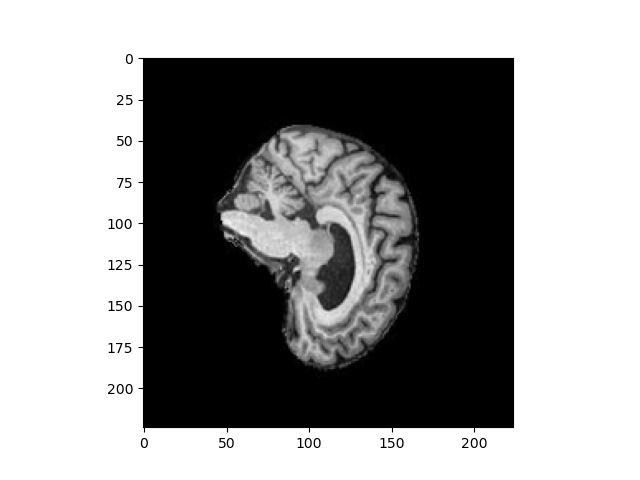
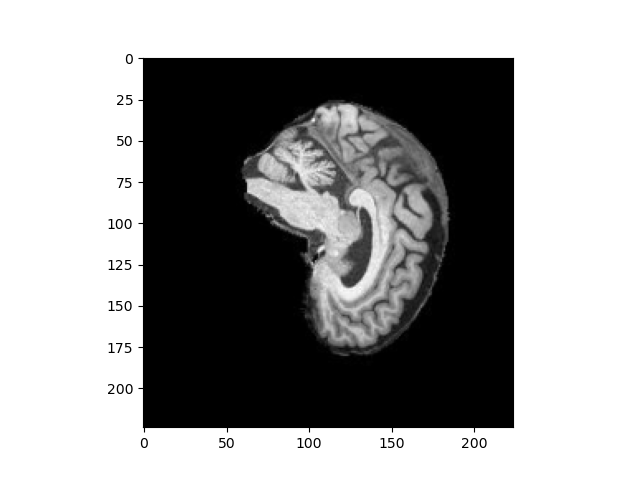
changed input to model to be 20 channels (as each person has 20 images/ slices)

Changed region(s): [[0.3438, 0.1875, 0.7188, 0.7812]]

diff --git a/recognition/s4742538_alzheimers/dataset.py b/recognition/s4742538_alzheimers/dataset.py
@@ -2,7 +2,7 @@
 Containing the data loader for loading and preprocessing your data
 """
 from torchvision import transforms, datasets # type: ignore
-from torch.utils.data import DataLoader, random_split, Subset # type: ignore
+from torch.utils.data import DataLoader, random_split, Subset, Dataset  # type: ignore
 import matplotlib # type: ignore 
 matplotlib.use("Agg") # to work in wsl
 import matplotlib.pyplot as plt  # type: ignore
@@ -11,7 +11,8 @@ from parameters import TRAIN_DIR, TEST_DIR, CHANNELS, IMAGE_SIZE, BATCH_SIZE, SA
 import os
 from sklearn.model_selection import train_test_split # type: ignore 
 from collections import defaultdict 
-
+from PIL import Image # type: ignore
+import torch # type: ignore
 
 # reduce image size, convert to tensor, and then normalise
 transform = transforms.Compose([
@@ -22,68 +23,111 @@ transform = transforms.Compose([
 ])
 
 # Get Images
-train_val_data = datasets.ImageFolder(root=TRAIN_DIR, transform=transform)
-test_data = datasets.ImageFolder(root=TEST_DIR, transform=transform)
+train_val_data = datasets.ImageFolder(root=TRAIN_DIR, transform=None) # do transform in class
+train_class_to_idx = train_val_data.class_to_idx # explicitly assigns labels
+print (f"labels assigned: {train_class_to_idx}")
 
+train_val_person_to_slices = defaultdict(list) #{person1: [1,2,3], person2: [4,5,6]...}
+train_val_person_labels = {}
+for path, label in train_val_data.samples:
+    pid = os.path.basename(path).split("_")[0]
+    train_val_person_to_slices[pid].append(path)
+    train_val_person_labels[pid] = label
 
-# extrac the person_ids
-image_paths = [path for path, _ in train_val_data.samples]
-person_ids = [os.path.basename(path).split("_")[0] for path in image_paths]
+for pid in train_val_person_to_slices: # make sure its in order
+    train_val_person_to_slices[pid] = sorted(train_val_person_to_slices[pid])
 
-person_to_indices = defaultdict(list) 
-for idx, pid in enumerate(person_ids):
-    person_to_indices[pid].append(idx) # stores (persons_id, [list of index's for that persons images])
+# now for test set
+test_data = datasets.ImageFolder(root=TEST_DIR, transform=None) # do transform in class
 
-unique_person_ids = list(person_to_indices.keys())
+test_person_to_slices = defaultdict(list)
+test_person_labels = {}
+
+for path, label in test_data.samples:
+    pid = os.path.basename(path).split("_")[0]
+    test_person_to_slices[pid].append(path)
+    test_person_labels[pid] = label
+
+for pid in test_person_to_slices:
+    test_person_to_slices[pid] = sorted(test_person_to_slices[pid])
+
+# # extract the person_ids
+# image_paths = [path for path, _ in train_val_data.samples]
+# person_ids = [os.path.basename(path).split("_")[0] for path in image_paths]
+
+# person_to_indices = defaultdict(list) 
+# for idx, pid in enumerate(person_ids):
+#     person_to_indices[pid].append(idx) # stores (persons_id, [list of index's for that persons images])
+
+train_val_unique_person_ids = list(train_val_person_to_slices.keys())
+test_person_ids = list(test_person_to_slices.keys())
 
 train_person_ids, val_person_ids = train_test_split(
-    unique_person_ids, 
+    train_val_unique_person_ids, 
     test_size=0.2, 
-    random_state=42 
-)# better than the other one
+    random_state=42,
+    stratify=[train_val_person_labels[pid] for pid in train_val_unique_person_ids] # makes it evenly split
+)
 
-# make indicies and their datasets for tran and val based on peopleid
-train_indices = [idx for pid in train_person_ids for idx in person_to_indices[pid]]
-val_indices = [idx for pid in val_person_ids for idx in person_to_indices[pid]]
+print(f"unique persons {len(train_val_unique_person_ids)}")
+print(f"train persons {len(train_person_ids)}")
+print(f"val persons {len(val_person_ids)}")
 
-train_dataset = Subset(train_val_data, train_indices)
-val_dataset = Subset(train_val_data, val_indices)
+
+class PersonDataset(Dataset):
+    def __init__(self, person_ids, person_to_slices, person_labels, transform):
+        self.person_ids = person_ids
+        self.person_to_slices = person_to_slices
+        self.person_labels = person_labels
+        self.transform = transform
+
+    def __len__(self):
+        return len(self.person_ids)
+
+    def __getitem__(self, idx):
+        pid = self.person_ids[idx]
+        slice_paths = self.person_to_slices[pid]
+        label = self.person_labels[pid]
+
+        slices = []
+        for path in slice_paths:
+            img = Image.open(path).convert('L')
+            if self.transform:
+                img = self.transform(img)
+            img = img.squeeze(0)  # remove old greyscale channel dim
+            slices.append(img)
+
+        # Stack into (20, H, W)
+        volume = torch.stack(slices, dim=0)
+        return volume, label
+
+
+train_dataset = PersonDataset(train_person_ids, train_val_person_to_slices, train_val_person_labels, transform)
+val_dataset = PersonDataset(val_person_ids, train_val_person_to_slices, train_val_person_labels, transform)
+test_dataset = PersonDataset(test_person_ids, test_person_to_slices, test_person_labels, transform)
 
 # sanity check
 print(f"train size {len(train_dataset)}")
 print(f"val size {len(val_dataset)}")
 print(f"test size {len(test_data)}")
-print(f"unique persons {len(unique_person_ids)}")
-print(f"train persons {len(train_person_ids)}")
-print(f"val persons {len(val_person_ids)}")
-
-# TODO: turn this to be error checking
-# # I want to make the assumption that each person has 20 images.
-# # yep this holds, for both train and test
-# counts = {pid: len(indices) for pid, indices in person_to_indices.items()}
-# avg_segments = sum(counts.values()) / len(counts)
-# unique_counts = set(counts.values())
-
-# print(f"Average segments per person: {avg_segments:.2f}")
-# print(f"Unique segment counts: {unique_counts}")
 
 # Make data loaders for each
 train_loader = DataLoader(train_dataset, batch_size=BATCH_SIZE, shuffle=True)
 val_loader = DataLoader(val_dataset, batch_size=BATCH_SIZE, shuffle=False)
-test_loader = DataLoader(test_data, batch_size=BATCH_SIZE, shuffle=False)
+test_loader = DataLoader(test_dataset, batch_size=BATCH_SIZE, shuffle=False)
 
 
-"""Visulise first image as a sanity check"""
-data_iter = iter(train_loader)
-images, labels = next(data_iter)
+"""Visualise first image as a sanity check"""
+# data_iter = iter(train_loader)
+# images, labels = next(data_iter)
 
-# look at the first image
-img = images[0].squeeze(0)  # remove batch & channel dims
-label = labels[0].item()
+# # look at the first image
+# img = images[0, 0]  # remove batch & channel dims
+# label = labels[0].item()
 
-img = img * 0.5 + 0.5 # un-normalise
+# img = img * 0.5 + 0.5 # un-normalise
 
-# Convert to numpy and plot
-plt.imshow(img.numpy(), cmap='gray')
-plt.savefig(SAMPLE_IMAGE_FILENAME)
-print(f"Label {label}")
+# # Convert to numpy and plot
+# plt.imshow(img.squeeze(0).numpy(), cmap='gray')
+# plt.savefig(SAMPLE_IMAGE_FILENAME)
+# print(f"Label {label}")

diff --git a/recognition/s4742538_alzheimers/predict.py b/recognition/s4742538_alzheimers/predict.py
@@ -2,7 +2,6 @@
 showing example usage of your trained model. Print out any results and / or provide 
 visualisations where applicable
 """
-
 from collections import defaultdict
 import os
 from dataset import test_loader
@@ -21,78 +20,21 @@ def eval_accuracy(model, device):
     print(f"Loaded model: {MODEL_FILENAME}")
 
     with torch.no_grad():
-        for (images, labels) in tqdm(test_loader, desc="Test Set"):
-            images = images.to(device)
+        for (volumes, labels) in tqdm(test_loader, desc="Test Set"):
+            volumes = volumes.to(device) # volumes: (B, 20, H, W)
             labels = labels.to(device)
 
-            outputs = model(images)
+            outputs = model(volumes)
             _, preds = torch.max(outputs, 1)
 
             all_labels.extend(labels.cpu().numpy())
             all_preds.extend(preds.cpu().numpy())
 
-    # Convert to numpy arrays
     all_labels = np.array(all_labels)
     all_preds = np.array(all_preds)
 
     test_accuracy = np.mean(all_labels == all_preds)
     print(f"Test Accuracy: {test_accuracy:.4f}")
-
-
-"""
-New one, groups the answers bet person and averages
-"""
-
-from collections import defaultdict
-import os
-
-def eval_accuracy_by_group(model, device):
-    """
-    Evaluate model accuracy for each person (averaged)
-    """
-
-    model.eval()
-    person_to_probs = defaultdict(list)
-    person_to_labels = {}
-
-    dataset = test_loader.dataset
-
-    if hasattr(dataset, "indices"): # handles both Subset or plain ImageFolder
-        samples = [dataset.dataset.samples[i] for i in dataset.indices]
-    else:
-        samples = dataset.samples
-
-    with torch.no_grad():
-        for i, (images, labels) in enumerate(tqdm(test_loader, desc="Grouped Eval")):
-            images = images.to(device)
-            outputs = model(images)
-            probs = torch.softmax(outputs, dim=1).cpu().numpy()
-            labels = labels.cpu().numpy()
-
-            # match batch to corresponding file paths
-            batch_samples = samples[i * test_loader.batch_size : i * test_loader.batch_size + len(labels)]
-
-            for (path, lable), prob in zip(batch_samples, probs):
-                pid = os.path.basename(path).split("_")[0] 
-                person_to_probs[pid].append(prob)
-                person_to_labels.setdefault(pid, int(lable))
-                if person_to_labels[pid] != int(lable):
-                    print(f"inconsistent labels for {pid}")
-
-    # aggregate probs for each person
-    y_true, y_pred = [], []
-    for pid, probs in person_to_probs.items():
-        mean_prob = np.mean(probs, axis=0)
-        pred = int(np.argmax(mean_prob))
-        y_pred.append(pred)
-        y_true.append(person_to_labels[pid])
-
-    y_true, y_pred = np.array(y_true), np.array(y_pred)
-    acc = np.mean(y_true == y_pred)
-
-    print(f"Subject-level accuracy: {acc:.4f} ({len(y_true)} subjects)")
-    return acc
-
 
 def main():
     device = "cuda" if torch.cuda.is_available() else "cpu"
@@ -102,8 +44,7 @@ def main():
     model.load_state_dict(torch.load(MODEL_FILENAME, map_location=device))
 
     eval_accuracy(model, device)
-    #eval_accuracy_by_group(model, device)
-    
+
 
 if __name__ == "__main__":
     main()

diff --git a/recognition/s4742538_alzheimers/parameters.py b/recognition/s4742538_alzheimers/parameters.py
@@ -7,12 +7,12 @@ BATCH_SIZE = 16
 
 LEARNING_RATE = 1e-4
 WEIGHT_DECAY = 1e-4
-EPOCHS = 2
+EPOCHS = 5
 
-MODEL_FILENAME = "./models/model_pre_data/E20_06374.pth"
+MODEL_FILENAME = "20Chan_E5.pth"
 
 MODEL_CONFIG = {
-    "in_chans": 1,
+    "in_chans": 20,
     "num_classes": 2,
     "depths": [3, 3, 9, 3],
     "dims": [96, 192, 384, 768]

diff --git a/recognition/s4742538_alzheimers/notes.md b/recognition/s4742538_alzheimers/notes.md
@@ -4,6 +4,7 @@
     conda install pytorch torchvision torchaudio pytorch-cuda=12.4 -c pytorch -c nvidia matplotlib
     pip install timm
     conda install scikit-learn
+    conda install -c anaconda Pillow
 
 
 # Models
